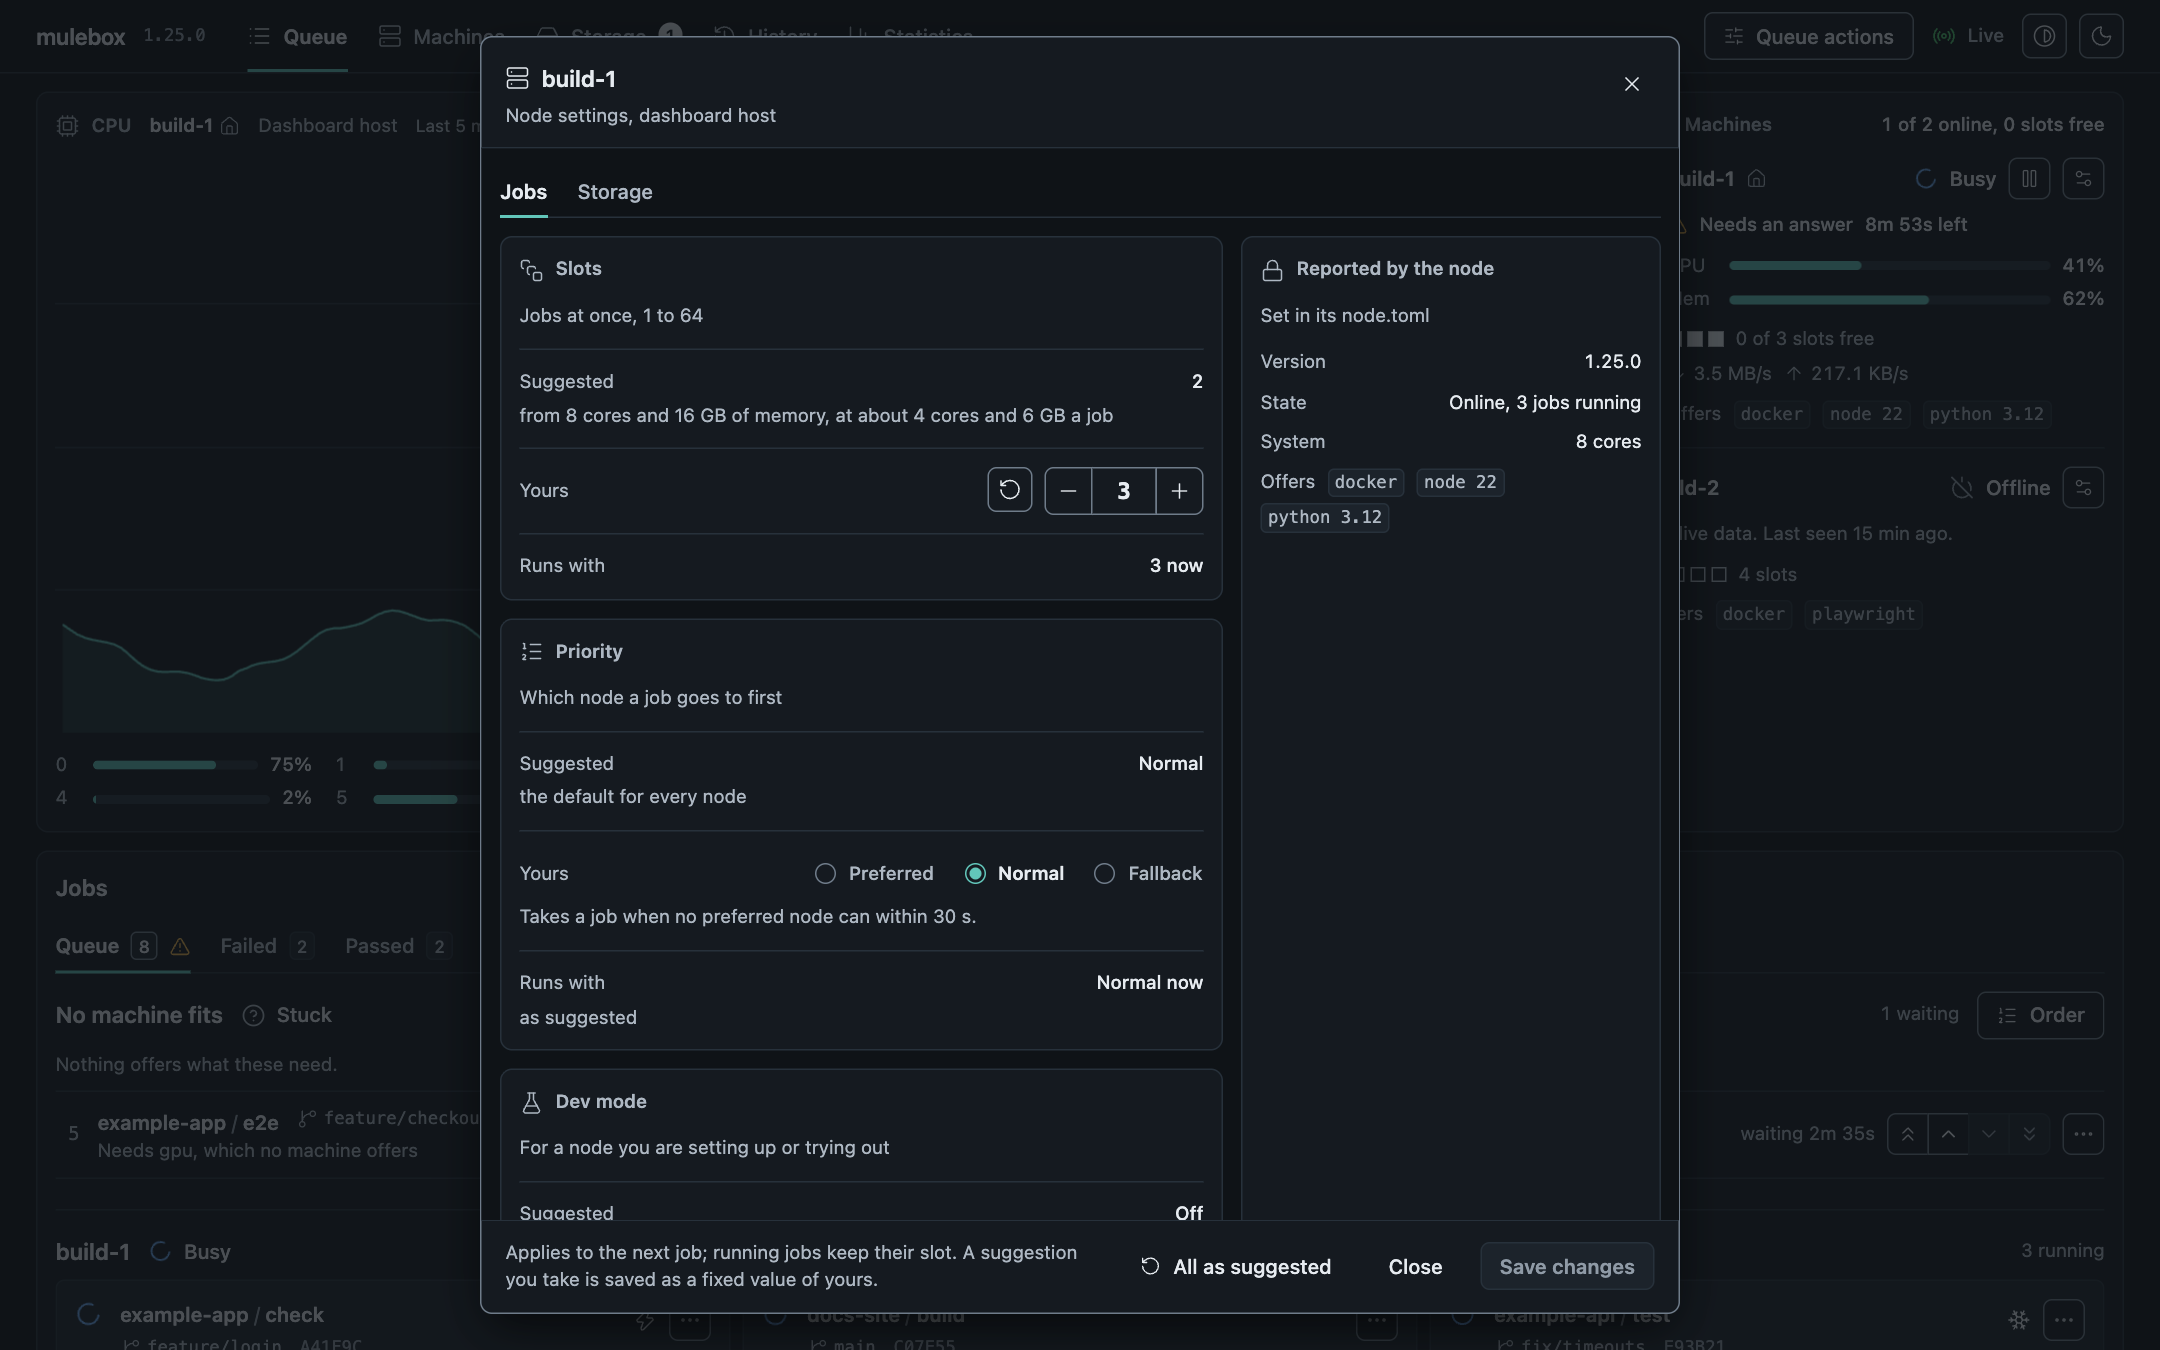
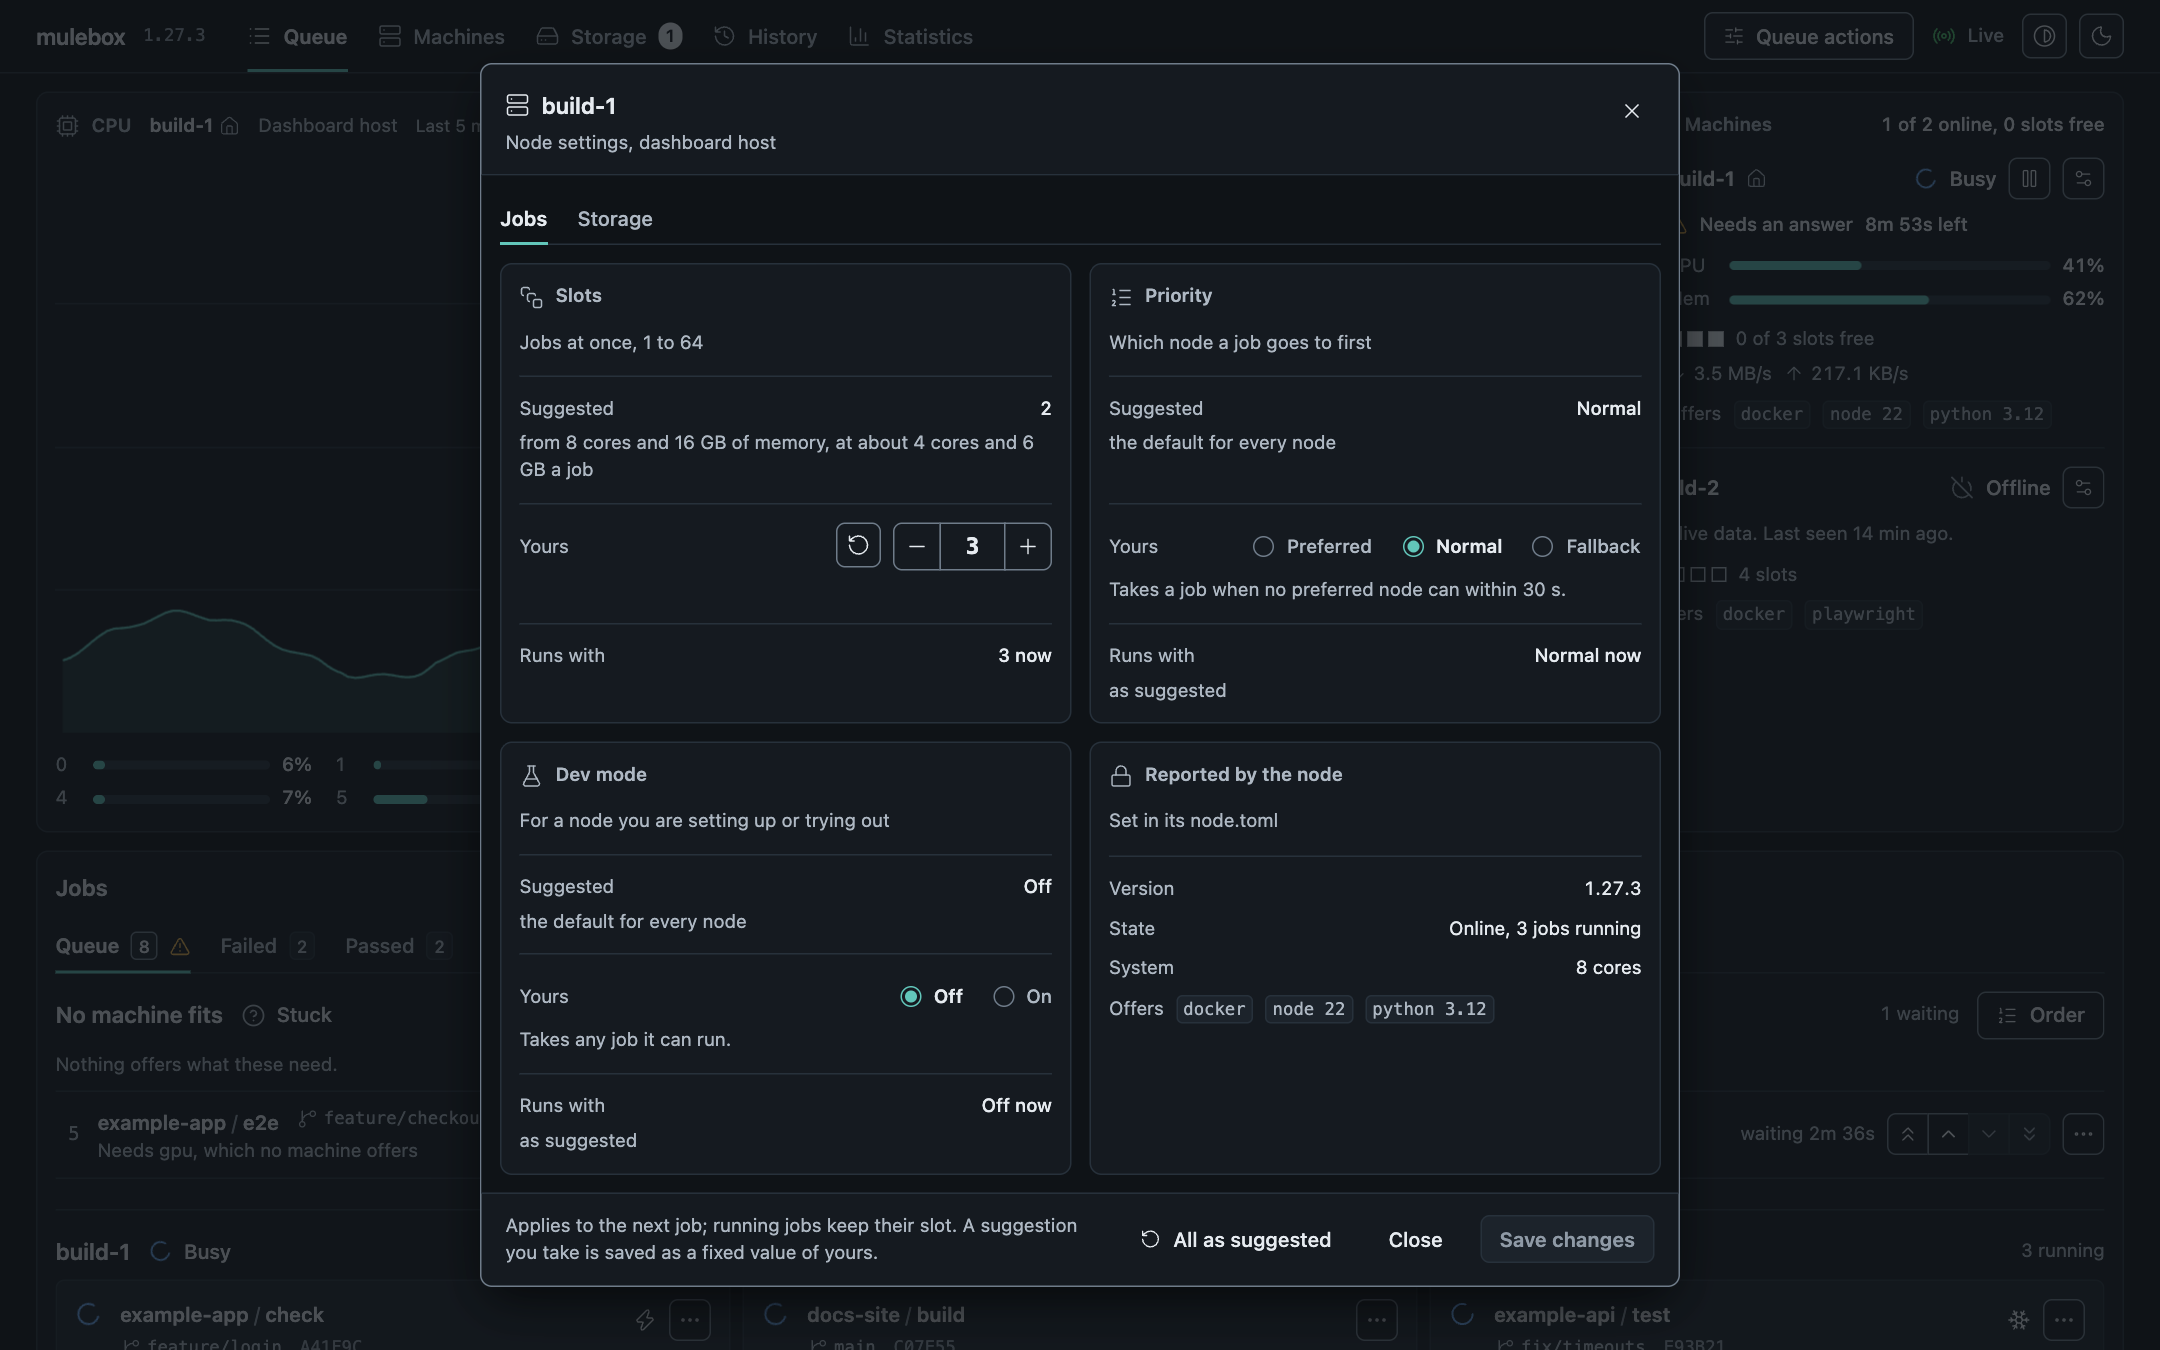
1.27.3: storage clean --no-docker leaves Docker alone; README pictures of the new settings window

diff --git a/mulebox/worker/storage_sweep.py b/mulebox/worker/storage_sweep.py
@@ -122,7 +122,7 @@ class Storing:
         return {(project, None if branch is None else project_home.slug(branch))
                 for project, branch in self._store()["keeps"]}
 
-    def _sweep(self, trigger: str = "hourly", docker: bool = False,
+    def _sweep(self, trigger: str = "hourly", docker: bool | None = None,
                by_hand: bool = False) -> dict[str, Any] | None:
         """One sweep; its record, or None when it failed (logged)."""
         state = self._store()
@@ -141,12 +141,13 @@ class Storing:
 
     def _sweep_order(self, order: dict[str, Any]) -> tuple[int, str]:
         """A `sweep` order (the user's Run now): (exit code, what it says)."""
-        record = self._sweep("now", order.get("docker") is True, by_hand=True)
+        docker = order.get("docker")  # True or False as asked; none from an older sender: the setting
+        record = self._sweep("now", docker if isinstance(docker, bool) else None, by_hand=True)
         if record is None:
             return 1, "mulebox: the cleanup failed; the worker's log says why"
         return 0, summary(record)
 
-    def _swept(self, trigger: str, docker: bool, by_hand: bool,
+    def _swept(self, trigger: str, docker: bool | None, by_hand: bool,
                state: dict[str, Any]) -> dict[str, Any]:
         started, policy = time.time(), self.node.storage
         folders, held = storage_scan.measure(self.paths)
@@ -161,7 +162,7 @@ class Storing:
         errors: list[str] = []
         act = by_hand or policy.auto_clean
         removed = self._remove(plan.to_remove, state, errors) if act and plan.to_remove else []
-        docker = docker or (act and policy.docker_clean)
+        docker = bool(act and policy.docker_clean) if docker is None else docker
         pruned = None
         if docker and self.docker is not None:
             try:

diff --git a/tools/screenshots.py b/tools/screenshots.py
@@ -72,7 +72,7 @@ SHOTS = [
          script="(async () => { const h = document.querySelector('section[aria-label=\"Cleanup history\"]');"
                 " const rows = h.querySelectorAll('button[aria-expanded]'); rows[0].click(); rows[5].click();"
                 " await new Promise(r => setTimeout(r, 300)); h.scrollIntoView(); window.scrollBy(0, -60); })()"),
-    Shot("storage-settings-light", "#/", "light", height=1000, env=CLEAN,
+    Shot("storage-settings-light", "#/", "light", height=1640, env=CLEAN,
          script="(async () => { document.querySelector('[aria-label=\"Settings of build-1\"]').click();"
                 " await new Promise(r => setTimeout(r, 1200)); document.getElementById('tab-storage').click(); })()"),
     Shot("low-space-light", "#/", "light", height=560, env={**CLEAN, "MULEBOX_MOCK_SCENE": "lowspace"}),

diff --git a/tests/worker/test_storage_cleanup.py b/tests/worker/test_storage_cleanup.py
@@ -108,3 +108,14 @@ def test_the_images_a_compose_model_pulls():
     model = {"services": {"db": {"image": "postgres:16"}, "app": {"build": {}, "image": "mine"},
                           "cache": {"image": "redis:7"}}}
     assert image_use.images_of(model) == ["postgres:16", "redis:7"]
+
+
+def test_run_now_without_docker_leaves_docker_alone(worker, send):  # noqa: F811
+    send("main", 1)
+    agent = worker()  # docker_clean is on
+    agent.docker = engine = FakeEngine()
+    agent._sweep_order({"action": "sweep", "docker": False})
+    assert not any(c[1:2] == ("prune",) for c in engine.calls)
+    assert agent._store()["report"]["sweep"]["docker"] is None
+    agent._sweep_order({"action": "sweep"})  # an older sender: the node's setting
+    assert ("builder", "prune", "--force", "--filter", "until=168h") in engine.calls

diff --git a/README.md b/README.md
@@ -162,9 +162,9 @@ theme and follows the system's by default.
 | A GitHub Actions run, step by step | Every machine at a glance |
 | ![History with search and filters](docs/images/history-light.png) | ![How long jobs ran, today and since the first job](docs/images/statistics-dark.png) |
 | History, searchable | Job minutes, by kind, project and machine |
-| ![A node's settings: slots and priority, each with mulebox's suggestion beside yours](docs/images/node-settings-dark.png) | ![The Order panel: the rules for the order of the line, each waiting row saying why it stands where it does](docs/images/order-light.png) |
-| A node's slots and priority, with the suggestion | Rules for the order of the line |
-| ![The Storage page: a node's disk as one ruler with its reserve, the automatic cleanup and what it last did, then every project and its branch folders with what happens to each](docs/images/storage-dark.png) | ![The Storage tab of a node's settings: free space to keep, when unused folders go, the latest folder and idle projects](docs/images/storage-settings-light.png) |
+| ![A node's settings, Jobs tab: slots, priority, dev mode and what the node reports, each setting with mulebox's suggestion beside yours](docs/images/node-settings-dark.png) | ![The Order panel: the rules for the order of the line, each waiting row saying why it stands where it does](docs/images/order-light.png) |
+| A node's slots, priority and dev mode, with the suggestion | Rules for the order of the line |
+| ![The Storage page: a node's disk as one ruler with its reserve, the automatic cleanup and what it last did, then every project and its branch folders with what happens to each](docs/images/storage-dark.png) | ![The Storage tab of a node's settings: free space to keep, the most mulebox may use, when unused folders go, the latest folder, cleaning up on its own, cleaning Docker too, idle projects and the size at which agents are warned](docs/images/storage-settings-light.png) |
 | What mulebox holds on a node, and what goes when | A node's disk settings, with what they would do |
 
 The Storage page shows, per node, what mulebox holds on its disk and what happens to each part: the
@@ -177,9 +177,11 @@ cleanup is on and what it does, what the last one removed, and what mulebox hold
 at which it warns; Run now runs a cleanup at once. At the bottom, the cleanup history lists every
 cleanup with why it ran, each folder it removed and why, what it freed in Docker, the free space
 before and after, and any error. The rules are a node's settings, in the Storage
-tab of its settings window: how much space to keep free, after how many days an unused branch
-folder goes, whether each project's latest folder stays, and when an idle project is suggested
-for cleaning, with one line that says what the values on screen would do before they are saved.
+tab of its settings window, two to a row: how much space to keep free and the most mulebox may
+use, after how many days an unused branch folder goes and whether each project's latest folder
+stays, whether the node cleans up on its own and cleans Docker too, and when an idle project is
+suggested for cleaning and past what size agents are told to tell you; one line says what the
+values on screen would do before they are saved.
 
 ![The cleanup history: each cleanup with why it ran, the folders it removed and why, what Docker freed, the free space before and after, and an error](docs/images/storage-history-light.png)
 
@@ -377,7 +379,8 @@ From the CLI or the dashboard, with no sign-in needed through the tunnel:
   7 days after that, Docker's unused build cache and the images its jobs no longer use too, and
   past a size you set the oldest go first; past 50 GB agents are told to tell you. All of it is
   your setting; `mulebox storage` shows what it holds and what goes when, `--history` every
-  cleanup and what it removed, `project keep` keeps a folder.
+  cleanup and what it removed, `storage clean` runs one now (`--no-docker` leaves Docker),
+  `project keep` keeps a folder.
 
 ### The dashboard
 
@@ -390,7 +393,9 @@ From the CLI or the dashboard, with no sign-in needed through the tunnel:
 - **History** with search and filters you can share as a link, and **Statistics**: job minutes today,
   by day and since the first job, by kind, project, source and machine (also `mulebox stats`).
 - **Machines page**: every node with its state, load, network, slots, version and last contact,
-  and a settings window per node for its slots and priority.
+  and a settings window per node for its slots, priority, dev mode and disk rules.
+- **Storage page**: what mulebox holds on each node and what goes when, the automatic cleanup with
+  Run now, and the history of every cleanup.
 - **Order panel**: the rules for the order of the line, set and saved from the page.
 - **Download meters** on a job's card: bytes, total and speed, and a warning when one stalls.
 - **Out of step**: a strip says when a dev machine, a worker or a skill runs another version, with the fix.

diff --git a/PROJECT_LOG.md b/PROJECT_LOG.md
@@ -8,6 +8,11 @@ Entry format:
     ## <version> - <YYYY-MM-DD> - <patch|minor|major>
     - what changed and why (one line each)
 
+## 1.27.3 - 2026-11-14 - patch
+- `mulebox storage clean --no-docker` leaves Docker alone: the node read the order's "no Docker" as "the node's setting" and pruned anyway when `docker_clean` was on (seen on the real node). A sweep order now carries Docker on or off as asked; one with no word on it, from an older sender, follows the setting (`worker/storage_sweep.py`). Test in `tests/worker/test_storage_cleanup.py`.
+- README: the node settings pictures retaken for the reworked window (the Jobs tab with dev mode, and the whole Storage tab with all eight disk settings, `tools/screenshots.py` taller for it), their captions and text, a Storage page bullet, and `mulebox storage clean`.
+- Seen on the real node with 1.27.2: the worker's first cleanup after the upgrade removed the folders of two branches deleted on the dev machine, each with "its branch is on no dev machine", and every command from a project told the agent mulebox held 56 GB, over the 50 GB warning size.
+
 ## 1.27.2 - 2026-11-14 - patch
 - docs/design-system/storage/: each mockup option Fable recommends carries a "Fable suggests" tag, on the index and on its page, and Fable's report (`report.html`) is kept beside them (the user's ask: every mockup set marks Fable's pick).
 

diff --git a/docs/phases.md b/docs/phases.md
@@ -1096,7 +1096,9 @@ runs a job.
       reclaimed nothing on this containerd image store (a throwaway rebuild left no untagged image
       to try it on: the store dropped the old one at once).
       Tagged images pulled before 1.26 are not in the ledger, so they stay until a job uses them
-      again. Open: why the prune leaves those images, and gone branches' folders once lists arrive.
+      again. Open: why the prune leaves those images.
+      Run 2026-11-14 (1.27.2): two branches deleted on the dev machine, their folders removed by the
+      node's next cleanup with "its branch is on no dev machine"; agents told of 56 GB over 50 GB.
 
 ## Parking lot
 - From similar tools (2026-11-12), weighed and left for later:
